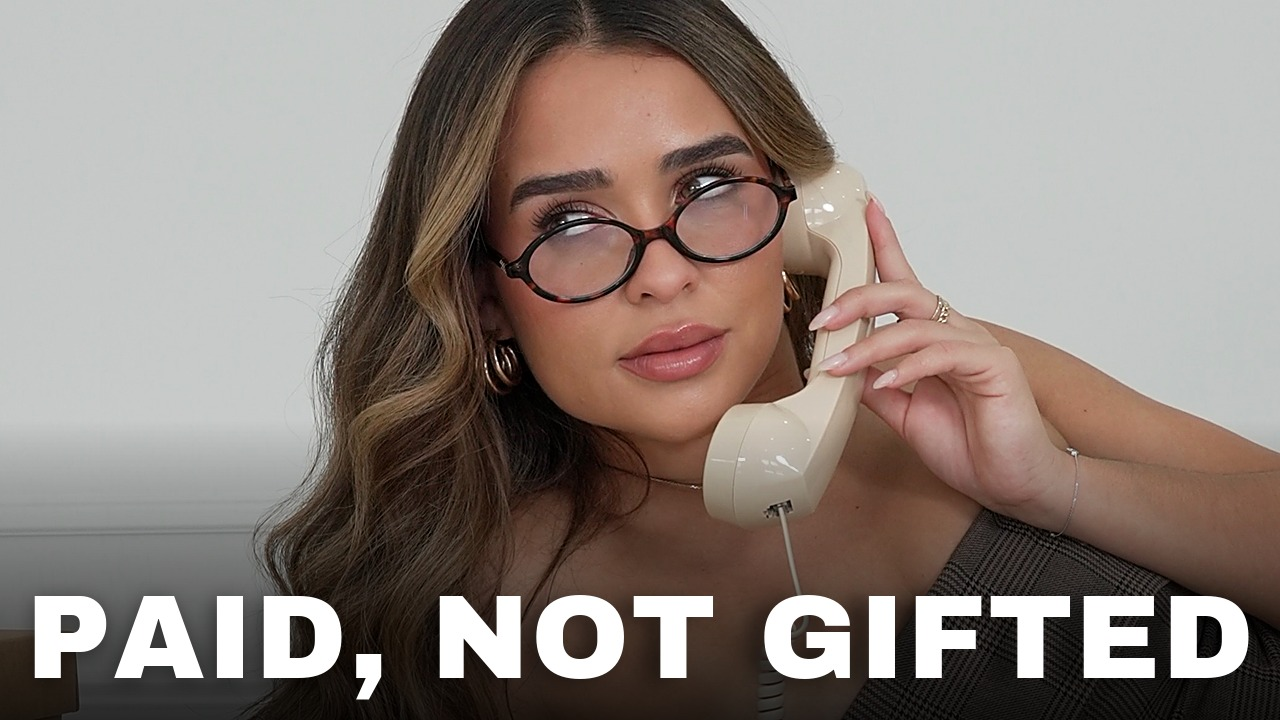
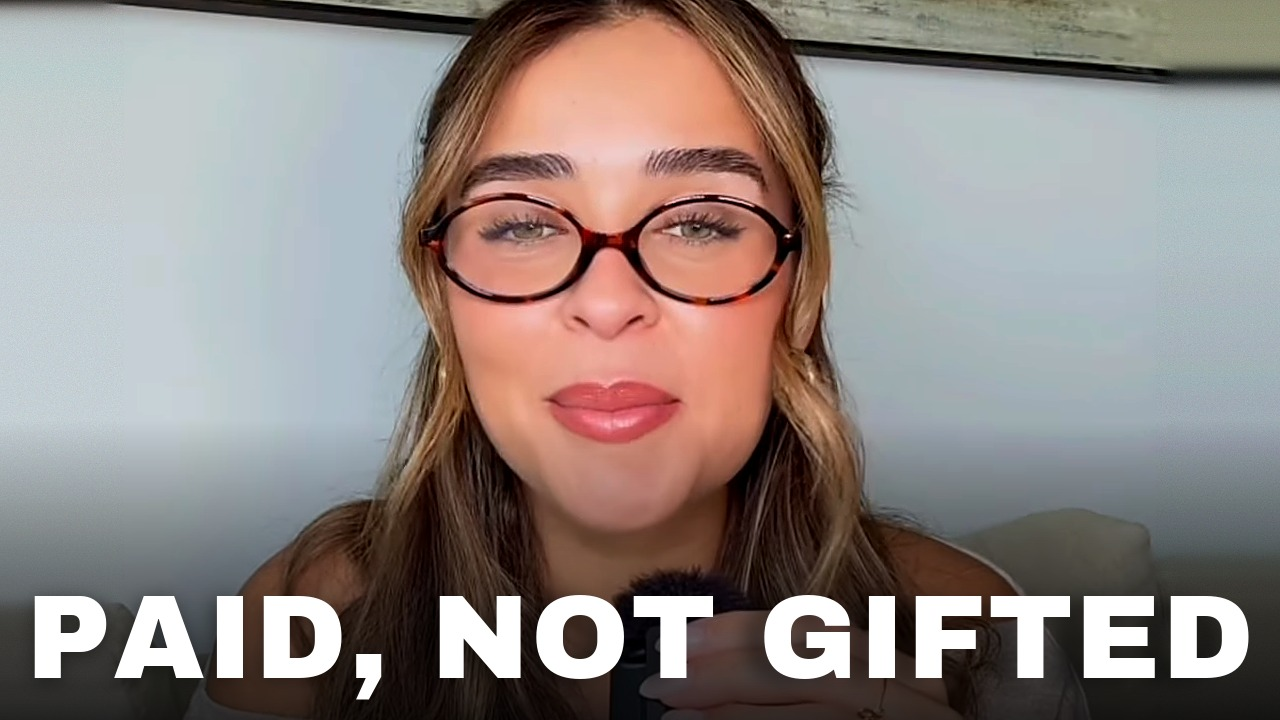
Bigger Anton headline; Gaby talking-head thumbnails

diff --git a/index.html b/index.html
@@ -8,14 +8,14 @@
   <meta name="robots" content="noindex" />
   <meta property="og:title" content="Gaby, adding an extra $100k a month to your personal brand" />
   <meta property="og:description" content="Gaby, adding an extra $100k a month to your personal brand" />
-  <meta property="og:image" content="https://nikola424.github.io/for-gabyeidam/og.jpg?v=5" />
+  <meta property="og:image" content="https://nikola424.github.io/for-gabyeidam/og.jpg?v=6" />
   <meta property="og:image:width" content="1200" />
   <meta property="og:image:height" content="630" />
   <meta property="og:url" content="https://nikola424.github.io/for-gabyeidam/" />
   <meta property="og:type" content="website" />
   <meta name="twitter:card" content="summary_large_image" />
   <meta name="twitter:title" content="Gaby, adding an extra $100k a month to your personal brand" />
-  <meta name="twitter:image" content="https://nikola424.github.io/for-gabyeidam/og.jpg?v=5" />
+  <meta name="twitter:image" content="https://nikola424.github.io/for-gabyeidam/og.jpg?v=6" />
   <!-- Generated per build from the PROSPECT'S logo: node scripts/make_favicon.js {folder} -->
   <link rel="icon" href="assets/img/favicon.png" type="image/png" />
   <link rel="apple-touch-icon" href="assets/img/apple-touch-icon.png" />
@@ -160,7 +160,7 @@
             <p class="beat__text">What if you added a flywheel funnel? Instagram brings in new eyes, and YouTube nurtures them. People need to watch a lot of videos to build trust with somebody, so YouTube is the best place for that. With Reels alone they would have to watch hundreds of them. On YouTube they can watch you for an hour. I made two thumbnails for your first video.</p>
           </div>
           <div class="beat__aside">
-            <figure class="shot shot--wide"><img src="assets/img/course-thumb-1.jpg?v=1" alt="Thumbnail option 1" loading="lazy" /><figcaption>Option 1</figcaption></figure><figure class="shot shot--wide"><img src="assets/img/course-thumb-2.jpg?v=1" alt="Thumbnail option 2" loading="lazy" /><figcaption>Option 2</figcaption></figure>
+            <figure class="shot shot--wide"><img src="assets/img/course-thumb-1.jpg?v=2" alt="Thumbnail option 1" loading="lazy" /><figcaption>Option 1</figcaption></figure><figure class="shot shot--wide"><img src="assets/img/course-thumb-2.jpg?v=2" alt="Thumbnail option 2" loading="lazy" /><figcaption>Option 2</figcaption></figure>
           </div>
         </article>
         <div class="bridge__close reveal">
